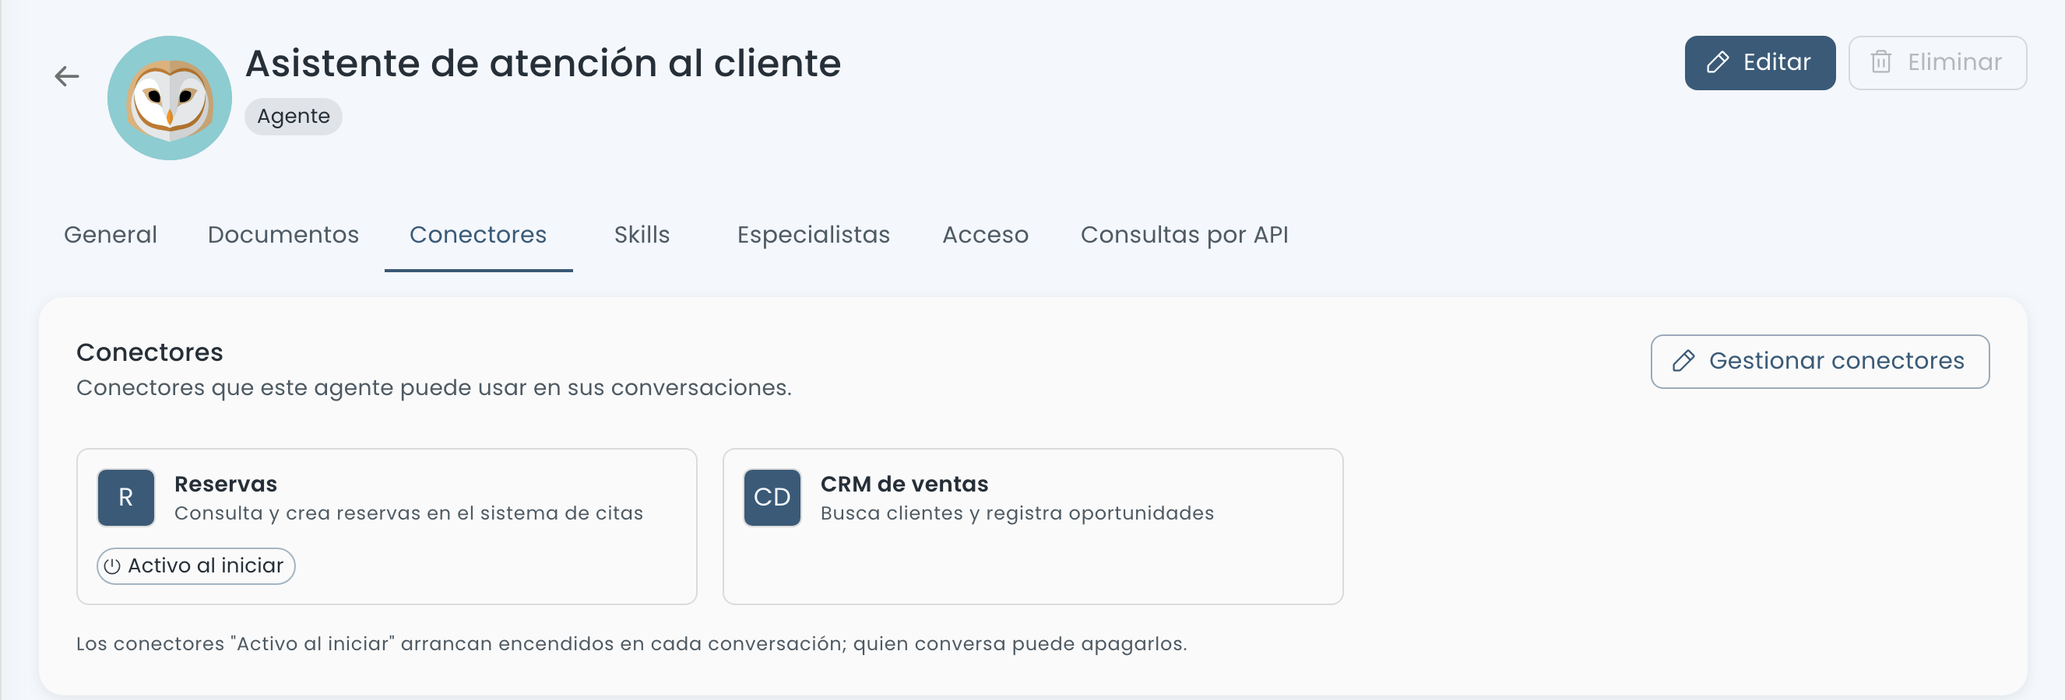
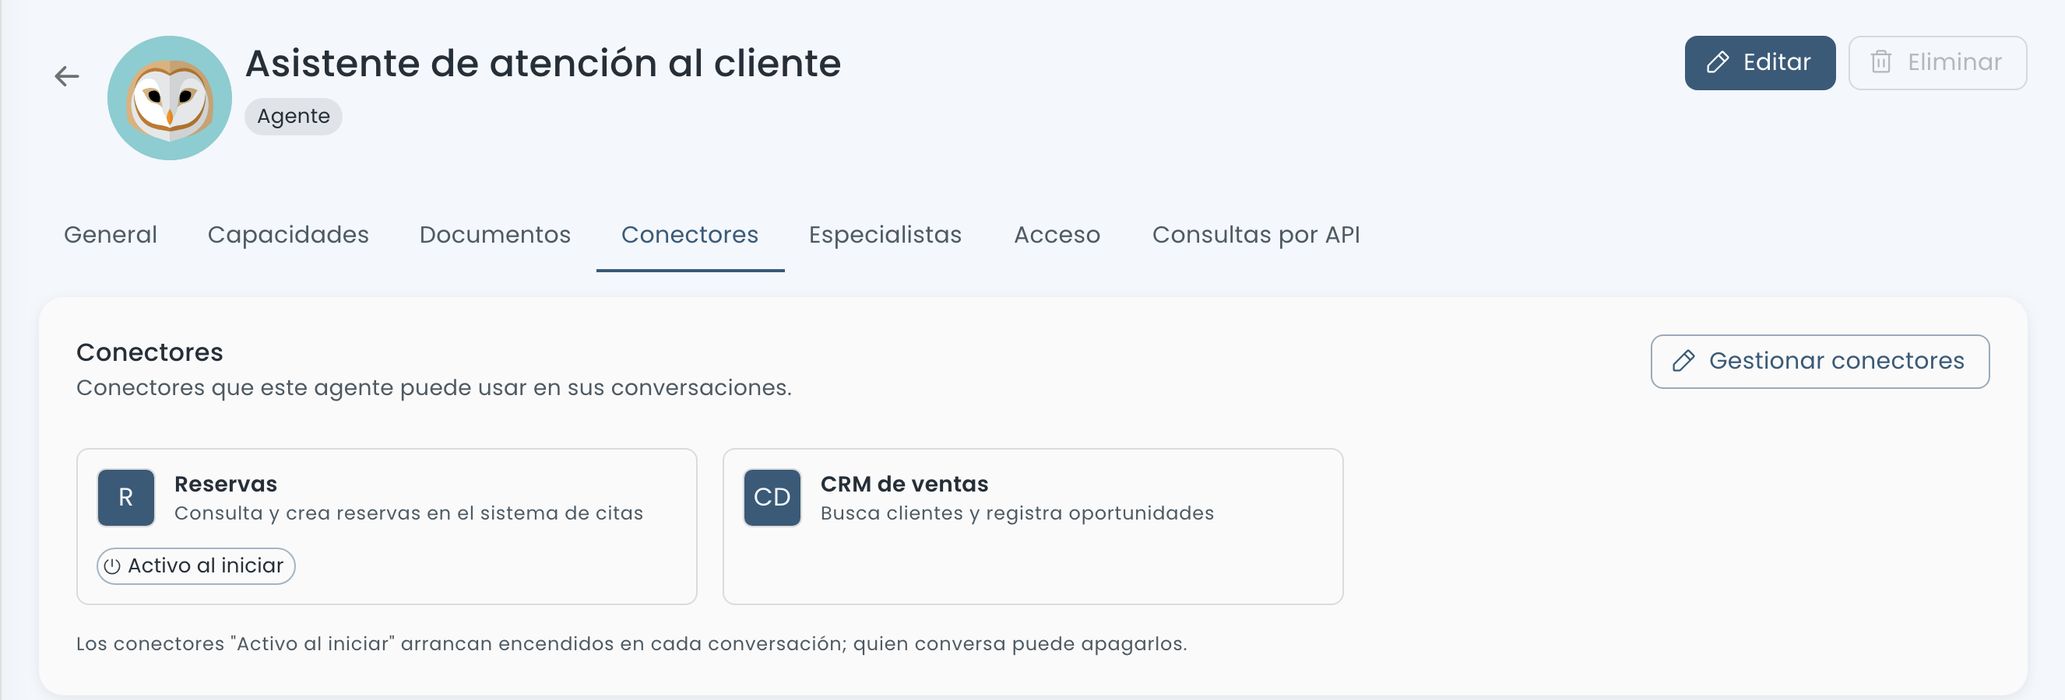
docs: documenta Habilidades y la pestaña Capacidades del agente
- Nuevas páginas Habilidades y Crear una habilidad en el Estudio.
- El detalle del agente reúne funciones integradas y habilidades en la pestaña
  Capacidades; el formulario de creación llama Funciones integradas a esa
  sección.
- Estudio, Agentes, Especialistas, Conversaciones, Catálogo, Matriz de
  permisos, Créditos y límites y Glosario, actualizados.
- Capturas de ejemplo nuevas y actualizadas.

Changed region(s): [[0.0928, 0.3111, 0.6493, 0.4044], [0.1855, 0.3733, 0.2783, 0.4044]]

diff --git a/sidebars.ts b/sidebars.ts
@@ -72,6 +72,8 @@ const sidebars: SidebarsConfig = {
         'control/estudio/agentes',
         'control/estudio/especialistas',
         'control/estudio/microagentes',
+        'control/estudio/habilidades',
+        'control/estudio/crear-una-habilidad',
         'control/estudio/esquemas-de-datos',
         'control/estudio/problemas-frecuentes',
       ]),

diff --git a/docs/control/1_estudio/crear-una-habilidad.md b/docs/control/1_estudio/crear-una-habilidad.md
@@ -1,0 +1,70 @@
+---
+id: crear-una-habilidad
+title: Crear una habilidad
+sidebar_label: Crear una habilidad
+sidebar_position: 7
+description: Cómo crear, importar, editar y exportar una habilidad en el Estudio de ConsulPoint, con sus archivos de referencia, imágenes y scripts.
+---
+
+# Crear una habilidad
+
+<PageMeta route="/studio/skills/new">creación sobre **Habilidades**</PageMeta>
+
+Una habilidad se crea en el Estudio, en la pestaña **Habilidades**, con **Nueva habilidad**, o se importa ya hecha con **Importar habilidad**. Qué es una habilidad y cómo la usa un agente se explica en [Habilidades](/control/estudio/habilidades).
+
+## Los datos de la habilidad
+
+<Screenshot src="/img/estudio/crear-habilidad.png" alt="Formulario para crear una habilidad" caption="Nueva habilidad" />
+
+| Campo | Restricción |
+|---|---|
+| **Nombre** | Obligatorio, hasta 64 caracteres: minúsculas, números y guiones, sin guion al principio ni al final. Por ejemplo, `revision-de-facturas`. No puede repetirse en la organización |
+| **Descripción** | Obligatoria, hasta 1.024 caracteres. Es lo que lee el agente para decidir **cuándo** usar la habilidad |
+| **Etiquetas** | Opcionales, hasta 20. Sirven para buscarla en la biblioteca |
+| **Instrucciones** | Obligatorias, hasta 100.000 caracteres. El procedimiento que el agente sigue al pie de la letra |
+
+:::tip Una buena descripción
+La descripción decide si el agente usa la habilidad. Mejor «Revisa facturas de proveedores: comprueba importes, impuestos y datos fiscales antes de aprobarlas» que «Facturas».
+:::
+
+## El contenido
+
+Además de las instrucciones, una habilidad puede llevar archivos. Se pueden subir al crearla, en **Contenido de la habilidad**, o después, en la pestaña **Contenido** de la habilidad, con **Agregar archivo**:
+
+| Tipo | Para qué | Formatos |
+|---|---|---|
+| **Archivo de referencia** | Una **Guía**, **Plantilla** o **Ejemplo** que el agente consulta | .md, .txt, .pdf, .docx, .json, .csv, .yaml, .yml, .xml, .html |
+| **Imagen** | Una imagen de referencia | .png, .jpg, .jpeg, .gif, .webp, .svg |
+| **Script** | Código que el agente ejecuta. Se indica su **Propósito** (obligatorio), sus **Entradas** y sus **Salidas** | .js, .mjs y .py |
+
+Límites: 5 MB por archivo, 20 archivos y 25 MB en total por habilidad. Los nombres de los scripts y de los archivos de texto no pueden tener espacios, tildes ni paréntesis, porque el agente no podría leerlos.
+
+<Screenshot src="/img/estudio/habilidad-contenido.png" alt="Pestaña Contenido de una habilidad" caption="Detalle de una habilidad → Contenido" />
+
+### Scripts
+
+Los scripts se ejecutan en un entorno aislado: sin acceso a internet y solo con la biblioteca estándar de cada lenguaje (no se pueden instalar paquetes de npm ni de pip). Cada ejecución tiene como máximo 30 segundos y 256 MB de memoria. Un script puede leer los archivos de texto de su propia habilidad.
+
+## Importar y exportar
+
+Las habilidades usan el formato **SKILL.md**, el mismo que otras herramientas de IA, así que se pueden llevar de una a otra:
+
+- **Importar habilidad** acepta un paquete .zip de hasta 30 MB con un archivo `SKILL.md` y, si las tiene, las carpetas `references`, `scripts` y `assets`, sin subcarpetas.
+- **Exportar**, en el detalle de la habilidad, descarga ese mismo paquete.
+
+## Editar, activar y eliminar
+
+En el detalle de una habilidad:
+
+| Acción | Qué hace |
+|---|---|
+| **Editar** | Cambia los datos y las instrucciones. Los cambios se aplican a todos los agentes que la tienen asignada. Solo en habilidades **Propia** |
+| **Activar** / **Desactivar** | Una habilidad desactivada sigue asignada, pero ningún agente la usa |
+| **Exportar** | Descarga el paquete .zip |
+| **Eliminar** | La elimina de la biblioteca y de los agentes. No se puede deshacer. Solo en habilidades **Propia** |
+
+La tarjeta de uso muestra cuántas veces se ha usado la habilidad, cuándo fue la última y los resultados de sus scripts.
+
+## Habilidades del catálogo
+
+En el [Catálogo de integraciones](/organizacion/catalogo-de-aplicaciones), la pestaña **Habilidades** ofrece habilidades ya hechas. Al instalar una, se añade a la biblioteca con origen **Del catálogo**. Si después aparece **Actualización disponible**, **Actualizar habilidad** sustituye sus instrucciones y archivos, y conserva el nombre, el estado y los agentes asignados. **Desinstalar habilidad** la quita de la biblioteca y de los agentes.

diff --git a/docs/control/1_estudio/habilidades.md b/docs/control/1_estudio/habilidades.md
@@ -1,0 +1,62 @@
+---
+id: habilidades
+title: Habilidades
+sidebar_label: Habilidades
+sidebar_position: 6
+description: Qué es una habilidad en ConsulPoint, cómo la usa un agente, la biblioteca de habilidades del Estudio y cómo asignarlas a agentes y especialistas.
+---
+
+# Habilidades
+
+<PageMeta route="/studio/skills">permiso sobre **Habilidades**</PageMeta>
+
+Una **habilidad** es un procedimiento que se escribe una sola vez y se asigna a los agentes que lo necesiten: cómo revisar una factura, cómo redactar una respuesta de reclamación, cómo calcular un presupuesto. Además de las instrucciones, puede incluir archivos de referencia (guías, plantillas, ejemplos o imágenes) y scripts que el agente ejecuta.
+
+<Screenshot src="/img/estudio/habilidades.png" alt="Biblioteca de habilidades en el Estudio de ConsulPoint" caption="Estudio → Habilidades" />
+
+## Cómo la usa un agente
+
+El agente no lleva todas sus habilidades cargadas en cada respuesta: conoce el nombre y la **Descripción** de cada una, y abre una habilidad solo cuando la conversación lo requiere. Por eso la descripción debe decir con claridad **cuándo** usarla. Una vez abierta, el agente sigue sus instrucciones al pie de la letra.
+
+En la conversación, encima de la respuesta, **Qué hizo el agente** muestra cada paso:
+
+- **Usó la habilidad "…"**
+- **Leyó "…" de la habilidad "…"**, al consultar un archivo de referencia
+- **Ejecutó "…" de la habilidad "…"**, al ejecutar un script
+
+Las habilidades funcionan igual en Conversaciones, en los canales conectados, en los especialistas (cada uno usa las suyas) y en las consultas por API.
+
+:::note Los cambios llegan a las conversaciones nuevas
+Si se edita, desactiva o quita una habilidad, el cambio se aplica a las conversaciones nuevas con el agente. Una conversación abierta que ya la usó puede seguir con la versión anterior.
+:::
+
+## La biblioteca
+
+En el Estudio, la pestaña **Habilidades** reúne las habilidades de la organización, con su **Estado**, su **Uso** (cuántas veces la han usado los agentes) y su **Origen**:
+
+| Origen | Significado |
+|---|---|
+| **Propia** | Creada o importada por la organización. Se puede editar y eliminar |
+| **Del catálogo** | Instalada desde el [Catálogo de integraciones](/organizacion/catalogo-de-aplicaciones). Se puede activar o desactivar, pero no editar; para quitarla, se desinstala desde el catálogo |
+
+La lista se puede buscar por nombre o etiqueta y filtrar por **Estado** y **Origen**. Una habilidad **Desactivada** sigue asignada a sus agentes, pero ninguno la usa hasta que se vuelva a activar.
+
+Para crear una, ver [Crear una habilidad](/control/estudio/crear-una-habilidad).
+
+## Asignar habilidades a un agente
+
+En el detalle del agente, la pestaña **Capacidades** muestra, debajo de las funciones integradas, las habilidades que tiene asignadas, con su uso en ese agente.
+
+1. Pulsar **Gestionar habilidades** (o **Agregar habilidades**, si todavía no tiene ninguna).
+2. Buscar las habilidades y añadirlas. Solo se pueden añadir habilidades activas.
+3. Guardar.
+
+<Screenshot src="/img/estudio/capacidades-agente.png" alt="Habilidades en la pestaña Capacidades de un agente" caption="Detalle de un agente → Capacidades" />
+
+Cada agente admite hasta **20 habilidades**. Los especialistas también tienen la pestaña **Capacidades** con sus habilidades: cuando un agente consulta a un especialista, este usa sus propias habilidades, no las del agente.
+
+Para asignar habilidades hace falta permiso de ver **Habilidades**, permiso de editar **Estudio** y acceso de edición al agente.
+
+## Quién puede hacer qué
+
+Con los roles predeterminados, el **Administrador** puede crear, editar y eliminar habilidades; **Miembro** y **Colaborador** solo verlas. El plan fija el número máximo de habilidades de la organización, contando las desactivadas y las del catálogo. Ver [Créditos y límites](/organizacion/creditos-y-limites#límites-del-plan).

diff --git a/docs/control/1_estudio/estudio-overview.md b/docs/control/1_estudio/estudio-overview.md
@@ -46,6 +46,7 @@ El tipo se elige al crear el agente y no se puede cambiar después.
 | **Agentes** | Los agentes de la organización |
 | **Especialistas** | Los especialistas disponibles para asignar a agentes |
 | **Microagentes** | Los microagentes, con su tipo y su esquema |
+| **Habilidades** | Procedimientos reutilizables que se asignan a agentes y especialistas. Ver [Habilidades](/control/estudio/habilidades) |
 | **Biblioteca de esquemas** | Estructuras de datos reutilizables por microagentes, carpetas y aplicaciones. Solo aparece con permiso sobre la biblioteca |
 
 En cada pestaña, el botón de la esquina crea un elemento de ese tipo (**Nuevo agente**, **Nuevo especialista**, **Nuevo microagente** o **Nuevo esquema**). Las listas se filtran por nombre y por modelo; la de microagentes, también por tipo.
@@ -55,9 +56,9 @@ En cada pestaña, el botón de la esquina crea un elemento de ese tipo (**Nuevo 
 Para poner en marcha un agente que responda con los documentos de la organización:
 
 1. **Preparar el conocimiento.** Subir los documentos a carpetas del [Centro de Conocimiento](/modulos/centro-de-conocimiento).
-2. **Crear el agente** en el Estudio, con sus instrucciones, su modelo y la capacidad **Acceso al centro de conocimiento**. Ver [Crear un agente](/control/estudio/crear-un-agente).
+2. **Crear el agente** en el Estudio, con sus instrucciones, su modelo y la función integrada **Acceso al centro de conocimiento**. Ver [Crear un agente](/control/estudio/crear-un-agente).
 3. **Darle acceso a las carpetas.** Compartirlas con el agente. Ver [Conocimiento de los agentes](/centro-de-conocimiento/conocimiento-de-los-agentes).
-4. **Asignarle especialistas**, si hay temas que conviene separar. Ver [Especialistas](/control/estudio/especialistas).
+4. **Asignarle especialistas**, si hay temas que conviene separar, y **habilidades**, si debe seguir procedimientos concretos. Ver [Especialistas](/control/estudio/especialistas) y [Habilidades](/control/estudio/habilidades).
 5. **Decidir quién lo usa**: solo quien lo crea, toda la organización o personas y roles concretos.
 6. **Probarlo** en [Conversaciones](/modulos/conversaciones) y revisar las fuentes de cada respuesta.
 7. **Conectarlo a un canal**, si va a atender fuera de la plataforma. Ver [Integraciones y canales](/modulos/integraciones).
@@ -84,5 +85,6 @@ El número de agentes que se pueden crear depende del plan contratado. Sin un pl
 | Gestionar un agente ya creado: documentos, acceso, eliminarlo | [Agentes](/control/estudio/agentes) |
 | Que un agente derive ciertos temas a otro más experto | [Especialistas](/control/estudio/especialistas) |
 | Extraer datos de documentos o correos | [Microagentes](/control/estudio/microagentes) |
+| Dar a varios agentes un mismo procedimiento | [Habilidades](/control/estudio/habilidades) |
 | Definir la estructura de los datos que se extraen | [Biblioteca de esquemas](/control/estudio/esquemas-de-datos) |
 | Resolver un problema | [Problemas frecuentes](/control/estudio/problemas-frecuentes) |

diff --git a/docs/control/1_estudio/crear-un-agente.md b/docs/control/1_estudio/crear-un-agente.md
@@ -20,7 +20,7 @@ El formulario para crear un agente o un especialista, campo por campo. Los micro
 ## Los pasos
 
 1. En el Estudio, pestaña **Agentes**, pulsar **Nuevo agente** (o **Nuevo especialista** en su pestaña).
-2. **Configuración**: tipo, información básica, comportamiento, modelo, personalización y capacidades.
+2. **Configuración**: tipo, información básica, comportamiento, modelo, personalización y funciones integradas.
 3. **Documentos y acceso**: documentos propios del agente y quién puede usarlo.
 4. Pulsar **Crear**.
 
@@ -103,11 +103,11 @@ Solo para agentes.
 - **Tono de comunicación**: hasta 3 entre **Formal**, **Informal**, **Amigable**, **Técnico** y **Profesional**. No se pueden combinar Formal con Informal, ni Amigable con Técnico.
 - **Iniciadores de conversación**: hasta 5 frases sugeridas al empezar una conversación, de 3 a 150 caracteres cada una.
 
-### Capacidades
+### Funciones integradas
 
-Funciones adicionales que el agente puede usar. Se añaden con **Agregar capacidad**.
+Funciones de la plataforma que el agente puede usar en sus respuestas. Se añaden con **Agregar función**. Esta sección solo aparece al crear el agente: después, las funciones se cambian en la pestaña [Capacidades](/control/estudio/agentes#capacidades) del agente.
 
-| Capacidad | Qué permite |
+| Función | Qué permite |
 |---|---|
 | **Acceso al centro de conocimiento** | Consultar los documentos del Centro de Conocimiento. Sin ella, el agente no aparece para compartir carpetas con él |
 | **Buscar en la web** | Buscar información actualizada en internet. En Conversaciones aparece el botón **Búsqueda web**, y la búsqueda solo se usa cuando está activado |
@@ -116,7 +116,7 @@ Funciones adicionales que el agente puede usar. Se añaden con **Agregar capacid
 | **Adjuntar archivos** | Subir y procesar archivos |
 | **Fuentes certificadas** | Usar fuentes de información verificadas, promovidas por Cala AI. Se activan en cada conversación con el botón **Fuentes certificadas** |
 
-Los especialistas solo pueden tener **Acceso al centro de conocimiento**. Los microagentes no tienen capacidades.
+Los especialistas solo pueden tener **Acceso al centro de conocimiento**. Los microagentes no tienen funciones integradas.
 
 :::warning La causa más frecuente de respuestas genéricas
 Un agente sin **Acceso al centro de conocimiento** no consulta documentos, aunque haya carpetas preparadas para él.

diff --git a/docs/referencia/glosario.md b/docs/referencia/glosario.md
@@ -22,7 +22,7 @@ Los términos que aparecen en la plataforma y en esta documentación, en orden a
 
 ## C
 
-- **Capacidad**: función opcional que se activa en cada agente, como **Buscar en la web**, **Adjuntar archivos** o **Texto a voz**. Ver [Capacidades](/control/estudio/crear-un-agente#capacidades).
+- **Capacidades**: pestaña del agente que reúne sus **funciones integradas** y sus **habilidades**. Ver [Agentes](/control/estudio/agentes#capacidades).
 - **Carpeta**: unidad con la que se organiza y se comparte el conocimiento. Puede ser **Estándar**, **Multimedia** o de **Extracción inteligente**. Ver [Carpetas y archivos](/centro-de-conocimiento/carpetas-y-archivos).
 - **Catálogo de integraciones**: lugar desde el que la organización instala aplicaciones y conectores ya hechos. Ver [Catálogo de integraciones](/organizacion/catalogo-de-aplicaciones).
 - **Centro de Conocimiento**: repositorio de documentos de la organización, del que leen los agentes. Ver [Centro de Conocimiento](/modulos/centro-de-conocimiento).
@@ -44,8 +44,14 @@ Los términos que aparecen en la plataforma y en esta documentación, en orden a
 
 ## F
 
-- **Fuentes certificadas**: capacidad que permite al agente usar fuentes de información verificadas. Se activa en cada conversación. Ver [Capacidades](/control/estudio/crear-un-agente#capacidades).
+- **Fuentes certificadas**: función integrada que permite al agente usar fuentes de información verificadas. Se activa en cada conversación. Ver [Funciones integradas](/control/estudio/crear-un-agente#funciones-integradas).
 - **Fuentes del mensaje**: la información que se consultó para generar una respuesta: documentos del Centro de Conocimiento o páginas web. Se ve con **Ver fuentes**. Ver [Fuentes del mensaje](/conversaciones/conversar-con-un-agente#fuentes-del-mensaje).
+
+- **Función integrada**: función de la plataforma que se activa en cada agente, como **Buscar en la web**, **Adjuntar archivos** o **Texto a voz**. Ver [Funciones integradas](/control/estudio/crear-un-agente#funciones-integradas).
+
+## H
+
+- **Habilidad**: procedimiento reutilizable, con instrucciones y, si hace falta, archivos y scripts, que se asigna a agentes y especialistas. El agente la usa cuando la necesita. Ver [Habilidades](/control/estudio/habilidades).
 
 ## I
 

diff --git a/docs/control/1_estudio/agentes.md b/docs/control/1_estudio/agentes.md
@@ -22,14 +22,24 @@ Se abre desde la lista del Estudio con **Ver detalle**. En la cabecera, **Editar
 
 | Pestaña | Contenido |
 |---|---|
-| **General** | Información básica, comportamiento, personalización y capacidades |
+| **General** | Información básica, comportamiento y personalización |
+| **Capacidades** | Lo que el agente puede hacer: sus funciones integradas y sus habilidades. Ver más abajo |
 | **Documentos** | Los documentos propios del agente y su estado de preparación |
 | **Conectores** | Herramientas externas que el agente puede usar. Ver más abajo |
 | **Especialistas** | Los especialistas que puede consultar. Ver [Especialistas](/control/estudio/especialistas#asignar-especialistas-a-un-agente) |
 | **Acceso** | Quién puede usar el agente y con qué nivel |
 | **Consultas por API** | Historial de las consultas hechas al agente a través de la API, con filtros por estado y fechas |
 
-Los especialistas tienen menos pestañas: no tienen **Conectores**, **Especialistas** ni **Consultas por API**.
+Los especialistas tienen menos pestañas: **General**, **Capacidades**, **Documentos** y **Acceso**.
+
+### Capacidades
+
+Reúne en un solo lugar lo que el agente puede hacer:
+
+- **Funciones integradas**: las funciones de la plataforma activas en el agente, como **Buscar en la web** o **Adjuntar archivos**. Se cambian con **Gestionar funciones** (o **Activar funciones**, si no tiene ninguna), con permiso de editar **Estudio**. La lista completa está en [Crear un agente](/control/estudio/crear-un-agente#funciones-integradas).
+- **Habilidades**: los procedimientos que el agente aplica cuando los necesita. Se asignan con **Gestionar habilidades**. Ver [Habilidades](/control/estudio/habilidades#asignar-habilidades-a-un-agente).
+
+<Screenshot src="/img/estudio/capacidades-agente.png" alt="Pestaña Capacidades en el detalle de un agente" caption="Detalle de un agente → Capacidades" />
 
 ### Documentos
 

diff --git a/docs/conversaciones/problemas-frecuentes.md b/docs/conversaciones/problemas-frecuentes.md
@@ -15,7 +15,7 @@ description: Soluciones a los problemas más habituales en Conversaciones de Con
 | Responde de forma genérica, sin usar los documentos | Revisar **Ver fuentes**. Si no hay fuentes, ver [Problemas frecuentes del Estudio](/control/estudio/problemas-frecuentes#el-agente-responde-de-forma-genérica-sin-usar-los-documentos) |
 | No aparece un agente al iniciar la conversación | No se tiene acceso a él. Lo da un administrador, en la pestaña **Acceso** del agente |
 | No se puede cambiar de agente | El agente queda fijado con el primer mensaje. Abrir una conversación nueva |
-| No aparece **Búsqueda web**, **Adjuntar archivos** o **Dictar** | El agente no tiene esa capacidad. Se añade en el Estudio |
+| No aparece **Búsqueda web**, **Adjuntar archivos** o **Dictar** | El agente no tiene esa función integrada. Se activa en el Estudio, en la pestaña **Capacidades** del agente |
 | **La respuesta se interrumpió** | Volver a enviar el mensaje |
 | **La ventana de contexto está casi llena** | Abrir una conversación nueva |
 | Los agentes dejan de responder | Se acabaron los créditos de la organización. Revisar el consumo |

diff --git a/docs/control/1_estudio/especialistas.md b/docs/control/1_estudio/especialistas.md
@@ -36,7 +36,7 @@ El agente puede responder sin consultar a ningún especialista, o consultar a va
 ### Qué puede hacer un especialista
 
 - Responder con sus **instrucciones del sistema** y sus **documentos**, propios o de carpetas del Centro de Conocimiento compartidas con él.
-- Solo puede tener la capacidad **Acceso al centro de conocimiento**: no busca en la web ni usa conectores.
+- Solo puede tener la función integrada **Acceso al centro de conocimiento**: no busca en la web ni usa conectores.
 - No puede consultar a otros especialistas. Solo hay un nivel: agente → especialista.
 
 ## Crear un especialista
@@ -48,7 +48,7 @@ En el Estudio, pestaña **Especialistas**, pulsar **Nuevo especialista**. El for
 | **Información técnica** | Dos campos obligatorios más (ver abajo) |
 | **Imagen** | No tiene |
 | **Personalización** (tono e iniciadores) | No tiene |
-| **Capacidades** | Solo **Acceso al centro de conocimiento** |
+| **Funciones integradas** | Solo **Acceso al centro de conocimiento** |
 | **Acceso** | **Solo yo** o **Mi organización** |
 
 | Campo | Descripción |

diff --git a/docs/organizacion/creditos-y-limites.md b/docs/organizacion/creditos-y-limites.md
@@ -46,7 +46,7 @@ Los créditos vuelven con el bono del siguiente ciclo o con un bono adicional as
 
 ## Límites del plan
 
-Cada plan fija un máximo para recursos como usuarios, roles, agentes, conversaciones, carpetas, almacenamiento, espacios de trabajo, integraciones, conectores, webhooks, claves de API, etiquetas, contactos o esquemas de datos. Un recurso sin máximo aparece como **Ilimitado**.
+Cada plan fija un máximo para recursos como usuarios, roles, agentes, conversaciones, carpetas, almacenamiento, espacios de trabajo, integraciones, conectores, webhooks, claves de API, etiquetas, contactos, esquemas de datos o habilidades. Un recurso sin máximo aparece como **Ilimitado**.
 
 Al llegar a un máximo solo se bloquea crear más; lo que ya existe se conserva. La plataforma muestra **Llegaste al tope de tu plan**, con la opción **Mejorar plan**, que lleva a [Planes](/organizacion/suscripcion#planes). Antes de llegar, los administradores reciben el aviso **Límite casi alcanzado**.
 

diff --git a/docs/control/1_estudio/problemas-frecuentes.md b/docs/control/1_estudio/problemas-frecuentes.md
@@ -12,7 +12,7 @@ description: Soluciones a los problemas más habituales al crear y usar agentes,
 
 | Causa | Solución |
 |---|---|
-| No tiene la capacidad **Acceso al centro de conocimiento** | **Editar** el agente y añadirla en **Capacidades** |
+| No tiene la función integrada **Acceso al centro de conocimiento** | En el detalle del agente, pestaña **Capacidades**, **Gestionar funciones** y activarla |
 | Las carpetas no están compartidas con el agente | Compartirlas desde el Centro de Conocimiento. Ver [Conocimiento de los agentes](/centro-de-conocimiento/conocimiento-de-los-agentes) |
 | Los documentos aún se están preparando, o falló la preparación | Revisar **Disponible para agentes** en cada archivo, o el estado en la pestaña **Documentos** del agente |
 | Quien conversa no tiene acceso a esas carpetas | El agente solo busca en carpetas a las que también tiene acceso la persona que pregunta |

diff --git a/docs/conversaciones/conversar-con-un-agente.md b/docs/conversaciones/conversar-con-un-agente.md
@@ -23,11 +23,11 @@ El agente queda fijado al enviar el primer mensaje: para hablar con otro agente 
 
 - **Enter** envía y **Mayúsculas + Enter** hace un salto de línea.
 - Un mensaje admite hasta 65.000 caracteres. Al acercarse al límite aparece un contador.
-- **Dictar** convierte la voz en texto, hasta 5 minutos por grabación. Solo aparece si el agente tiene la capacidad **Voz a texto**.
+- **Dictar** convierte la voz en texto, hasta 5 minutos por grabación. Solo aparece si el agente tiene la función integrada **Voz a texto**.
 
 ### Adjuntar archivos
 
-**Adjuntar archivos**, arrastrar o pegar. Solo aparece si el agente tiene la capacidad **Adjuntar archivos**.
+**Adjuntar archivos**, arrastrar o pegar. Solo aparece si el agente tiene la función integrada **Adjuntar archivos**.
 
 | | En una conversación interna |
 |---|---|
